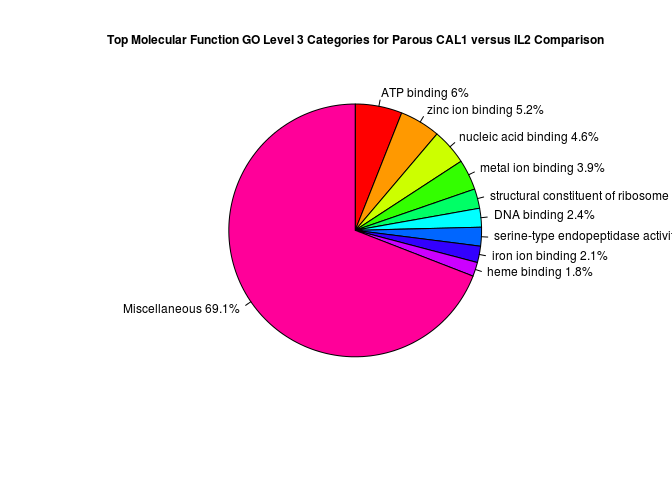
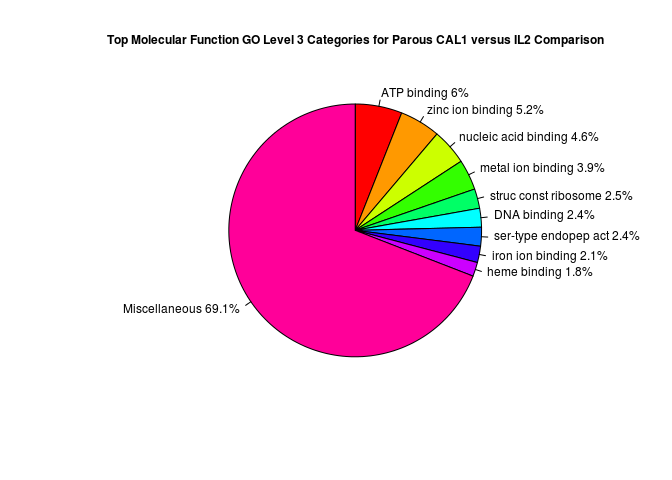
fixed figure labels on MF pie charts

Changed region(s): [[0.7812, 0.375, 1.0, 0.4375], [0.75, 0.4688, 1.0, 0.5]]

diff --git a/Culex_GO_Figs_09072018.md b/Culex_GO_Figs_09072018.md
@@ -41,6 +41,7 @@ Rounded_Percentages <- round(Percentages, 1)
 
 ``` r
 lbls <- c(as.character(DGC_MF_grVpa$GO), "Miscellaneous")
+lbls <- gsub("structural constituent of ribosome", "struc const ribosome", lbls)
 lbls <- paste(lbls, Rounded_Percentages$DGC_MF_grVpa) # add percents to labels
 lbls <- paste(lbls,"%",sep="") # ad % to labels 
 grVpa_pie <- pie(Rounded_Percentages$DGC_MF_grVpa, labels =lbls, main = "Top Molecular Function GO Level 3 Categories for Gravid CAL1 versus Parous CAL1 Comparison", radius = 0.9, col = rainbow(length(lbls)), cex = 0.75, cex.main = 0.75, tck=.2, clockwise = T)
@@ -50,6 +51,7 @@ grVpa_pie <- pie(Rounded_Percentages$DGC_MF_grVpa, labels =lbls, main = "Top Mol
 
 ``` r
 lbls <- c(as.character(DGC_MF_paVma$GO), "Miscellaneous")
+lbls <- gsub("structural constituent of ribosome", "struc const ribosome", lbls)
 lbls <- paste(lbls, Rounded_Percentages$DGC_MF_paVma) 
 lbls <- paste(lbls,"%",sep="") 
 paVma_pie <- pie(Rounded_Percentages$DGC_MF_paVma, labels =lbls, main = "Top Molecular Function GO Level 3 Categories for Parous CAL1 versus Male CAL1 Comparison", radius = 0.9, col = rainbow(length(lbls)), cex = 0.75, cex.main = 0.75, tck=.2, clockwise = T)
@@ -59,6 +61,8 @@ paVma_pie <- pie(Rounded_Percentages$DGC_MF_paVma, labels =lbls, main = "Top Mol
 
 ``` r
 lbls <- c(as.character(DGC_MF_paVpip$GO), "Miscellaneous")
+lbls <- gsub("structural constituent of ribosome", "struc const ribosome", lbls)
+lbls <- gsub("serine-type endopeptidase activity", "ser-type endopep act", lbls)
 lbls <- paste(lbls, Rounded_Percentages$DGC_MF_paVpip) 
 lbls <- paste(lbls,"%",sep="") 
 paVpip_pie <- pie(Rounded_Percentages$DGC_MF_paVpip, labels =lbls, main = "Top Molecular Function GO Level 3 Categories for Parous CAL1 versus IL2 Comparison", radius = 0.9, col = rainbow(length(lbls)), cex = 0.75, cex.main = 0.75, tck=.2, clockwise = T)
@@ -68,6 +72,8 @@ paVpip_pie <- pie(Rounded_Percentages$DGC_MF_paVpip, labels =lbls, main = "Top M
 
 ``` r
 lbls <- c(as.character(DGC_MF_grVpip$GO), "Miscellaneous")
+lbls <- gsub("structural constituent of ribosome", "struc const ribosome", lbls)
+lbls <- gsub("serine-type endopeptidase activity", "ser-type endopep act", lbls)
 lbls <- paste(lbls, Rounded_Percentages$DGC_MF_grVpip) 
 lbls <- paste(lbls,"%",sep="") 
 grVpip_pie <- pie(Rounded_Percentages$DGC_MF_grVpip, labels =lbls, main = "Top Molecular Function GO Level 3 Categories for Gravid CAL1 versus IL2 Comparison", radius = 0.9, col = rainbow(length(lbls)), cex = 0.75, cex.main = 0.75, tck=.2, clockwise = T)
